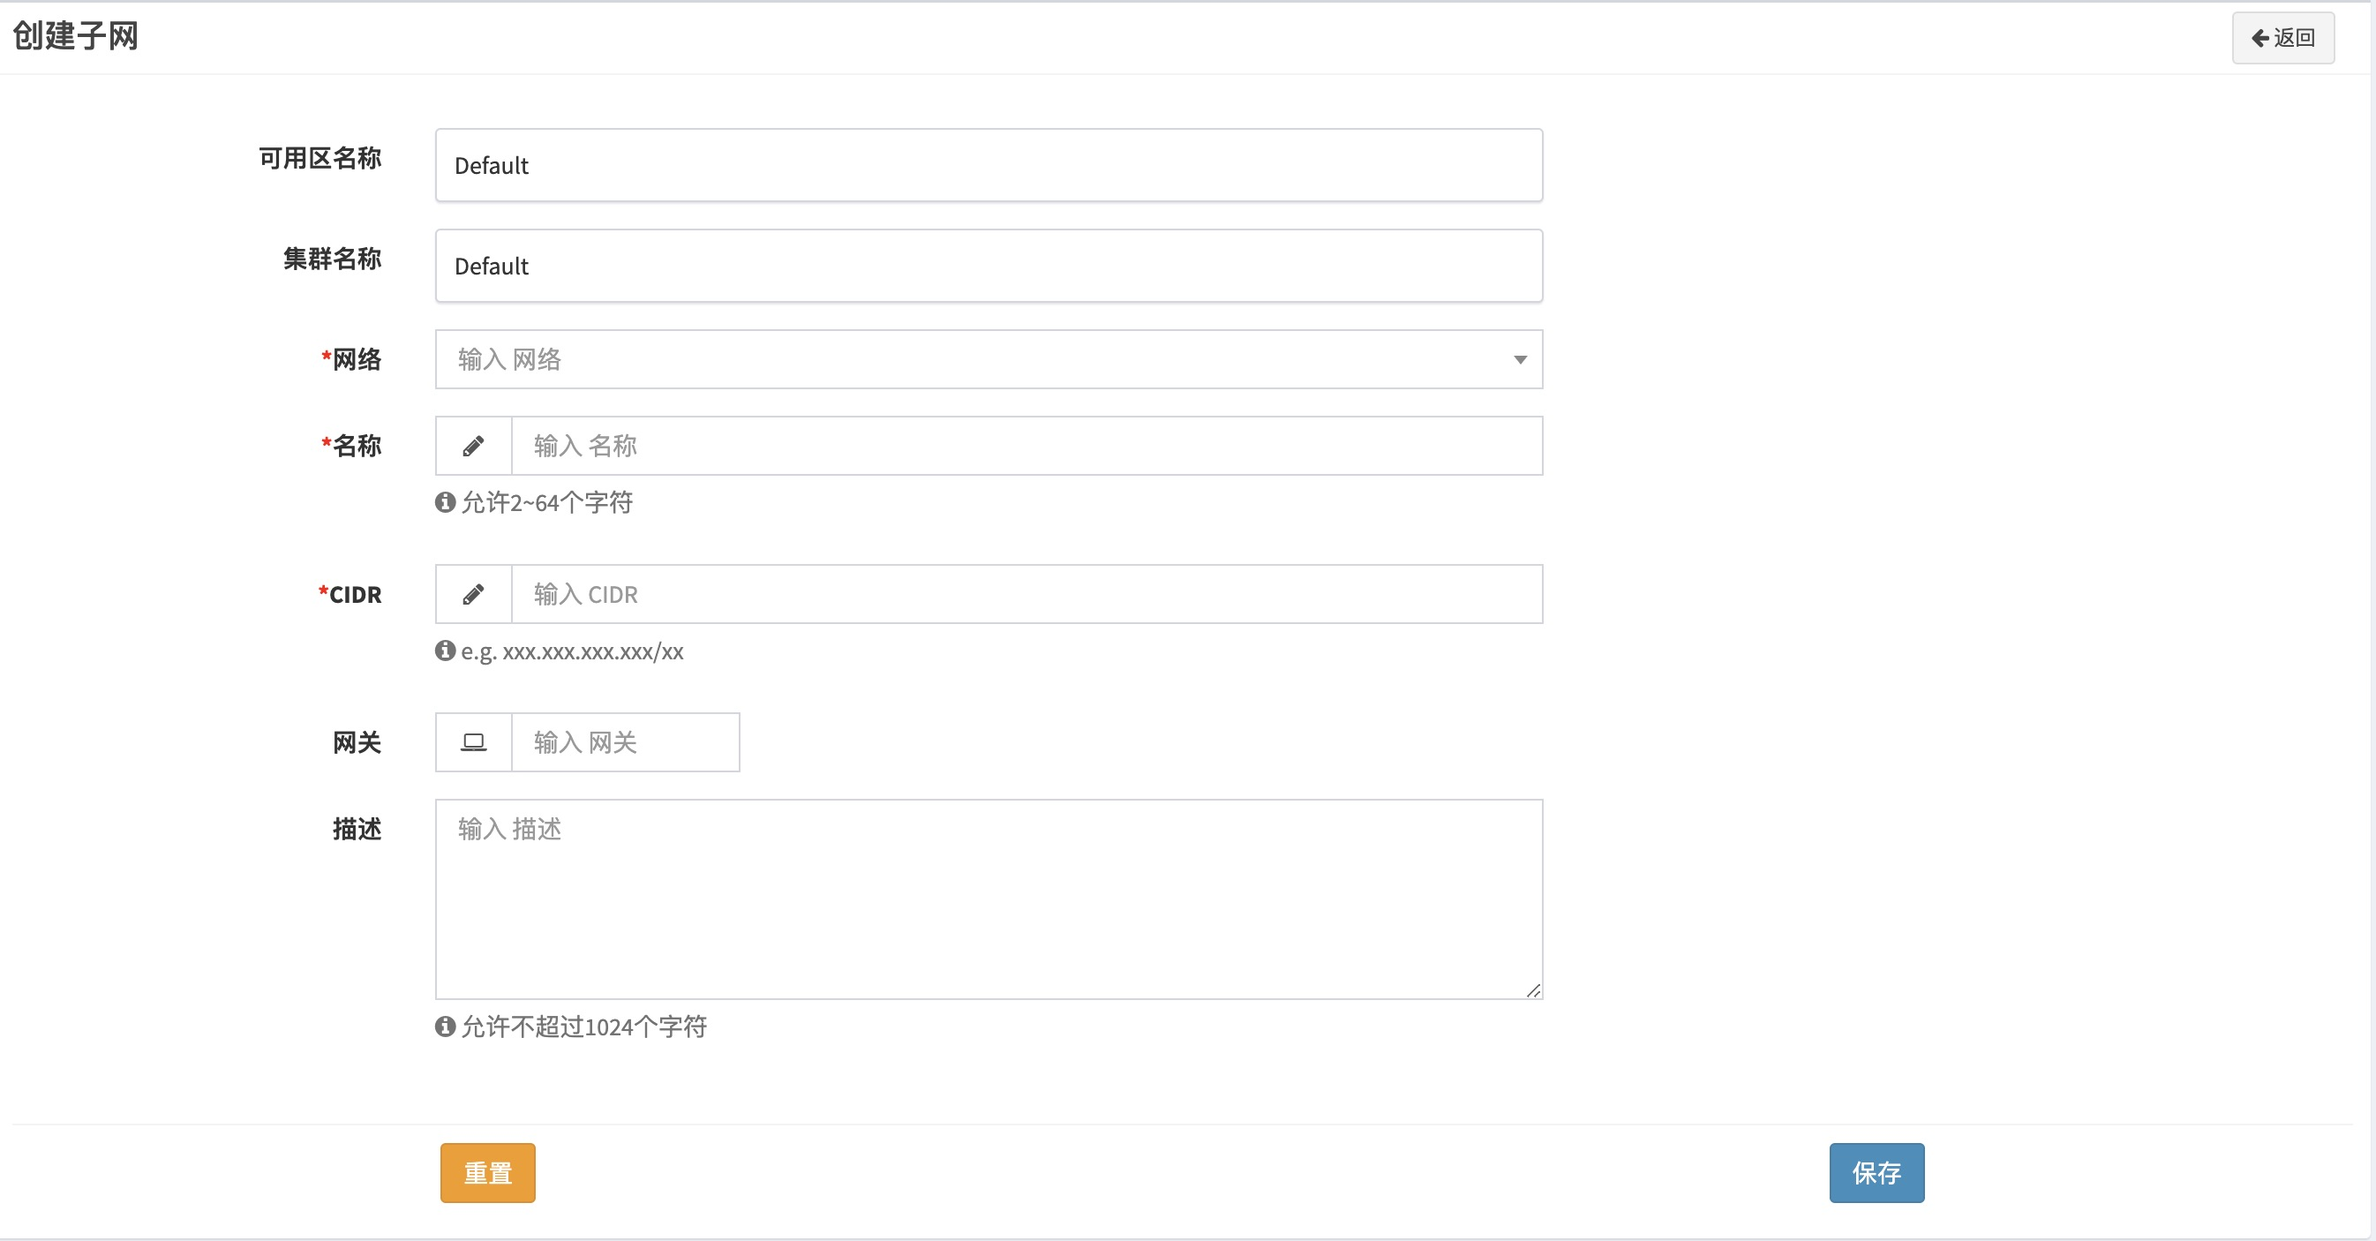
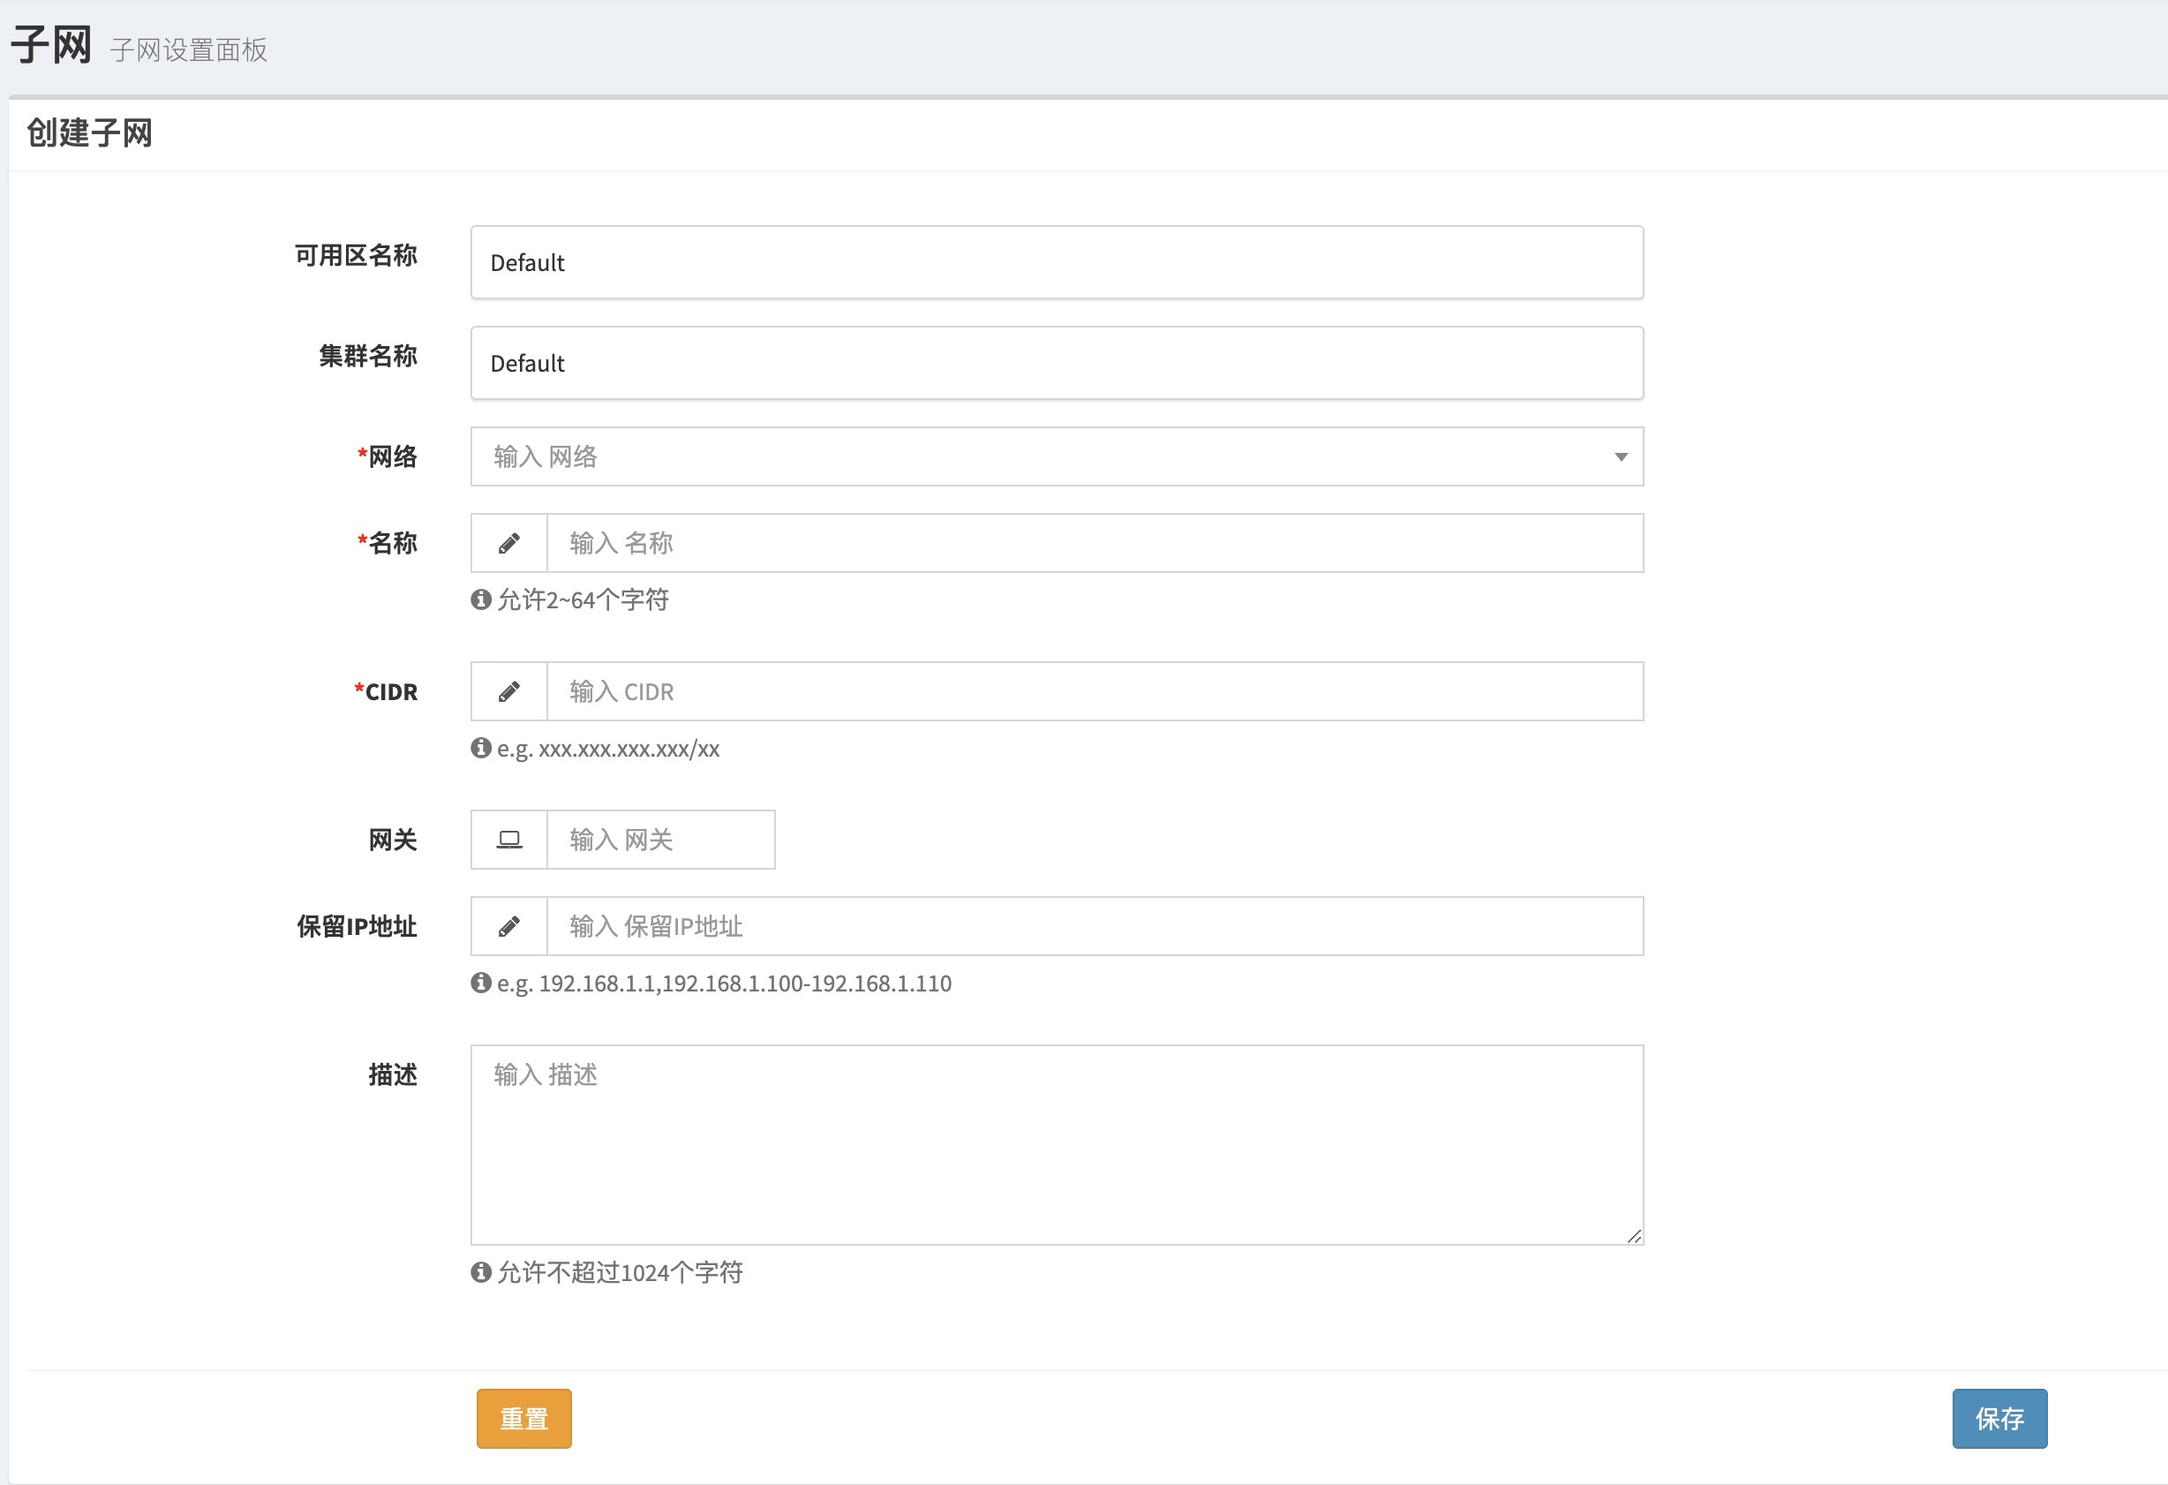
update

diff --git a/content/zh/docs/Usage/WebUI/Platform/host/_index.md b/content/zh/docs/Usage/WebUI/Platform/host/_index.md
@@ -8,7 +8,7 @@ weight: 4
 
 集群安装完成后，一个运行chime-agent的节点会自动注册到系统里，但这时该节点还不能分配虚拟资源，即无法创建虚拟机，管理员需要把节点注册到单个集群中，才能分配物理资源。
 
-* 查看物理节点列表
+### 查看物理节点
   * 点击"**筛选**"按钮，输入过滤条件，查询过滤后的物理节点列表
   * 点击"**列过滤**"按钮，过滤需要显示在列表的信息，默认全部显示
 
@@ -16,7 +16,8 @@ weight: 4
 物理节点列表页
 {{% /imgproc %}}
 
-* 注册节点，点击"**注册**"，输入或选择注册节点信息:
+### 注册节点
+* 点击"**注册**"，输入或选择注册节点信息:
   * 选择要注册的可用区
   * 选择要注册的集群
   * 输入CPU的超分比(默认是1.0)，比如32核心的物理CPU，可分最多32核心的vCPUs给虚拟机。如果设置超分比是2.0，则可分配最多64核心的vCPUs
@@ -30,7 +31,7 @@ weight: 4
 
 ## 已注册节点
 
-* 查看已注册节点列表
+### 查看已注册节点
   * 点击"**筛选**"按钮，输入过滤条件，查询过滤后的已注册节点列表
   * 点击"**列过滤**"按钮，过滤需要显示在列表的信息，默认全部显示
 {{% imgproc host_list Fit "1000x600" %}}
@@ -65,7 +66,7 @@ weight: 4
 节点的操作日志
 {{% /imgproc %}}
 
-* 修改节点配置
+### 修改节点
   * 输入CPU的超分比(默认是1.0)，比如32核心的物理CPU，可分最多32核心的vCPUs给虚拟机。如果设置超分比是2.0，则可分配最多64核心的vCPUs
   * 输入保留CPU，即有多少核心的CPU是不参与虚拟化的，一般情况下每个节点会预留少量的CPU资源作为运行在节点上的基础服务用；在超融合场景下，往往存储后端的服务进程也需要预留一部分的CPU单独使用，目的对虚拟化使用的计算资源进行限制和隔离，减少互相影响。
   * 输入内存超分比(默认是1.0)，内存超分的计算方法和CPU超分计算方法类似。
@@ -76,7 +77,7 @@ weight: 4
 更新节点设置
 {{% /imgproc %}}
 
-* 节点相关操作
+### 节点管理
   * 点击"**删除**"按钮解除注册节点信息，该节点在物理节点列表重新回到未注册状态。注意，如果该节点包含任何未删除的虚拟机或本地硬盘资源，则无法删除。
   * 点击"**停用**"停止该节点的调度，不影响已经运行的虚拟机，但新虚拟机将不再调度到该节点
   * 点击"**启用**"重新启用已经停止的节点

diff --git a/content/zh/docs/Usage/WebUI/Platform/publicimage/_index.md b/content/zh/docs/Usage/WebUI/Platform/publicimage/_index.md
@@ -1,28 +1,31 @@
 ---
-title: 共有镜像管理
-description: 介绍共有镜像的管理方法
+title: 镜像管理
+description: 介绍镜像的管理方法
 weight: 10
 ---
 
-* 查看镜像源列表
-  * 点击**筛选**按钮，输入过滤条件，查询过滤后的镜像源列表，每个账号有一个私有镜像源
-  * 点击**列过滤**按钮，过滤需要显示在列表的信息，默认全部显示
+## 查看镜像源
+  * 点击"**筛选**"按钮，输入过滤条件，查询过滤后的镜像源列表。注意，每个ChimeStack用户都有且只有一个私有镜像源，镜像源名是用户的Uuid
+  * 点击"**列过滤**"按钮，过滤需要显示在列表的信息，默认全部显示
 
 {{% imgproc bucket_list Fit "1000x600" %}}
 镜像源列表
 {{% /imgproc %}}
 
-* 查看镜像列表
-  * 点击**筛选**按钮，输入过滤条件，查询过滤后的镜像列表
-  * 点击**列过滤**按钮，过滤需要显示在列表的信息，默认全部显示
+## 查看镜像
+  * 点击"**筛选**"按钮，输入过滤条件，查询过滤后的镜像列表
+  * 点击"**列过滤**"按钮，过滤需要显示在列表的信息，默认全部显示
   
 {{% imgproc image_list Fit "1000x600" %}}
 镜像列表
 {{% /imgproc %}}
 
-* 添加公共镜像，输入或选择以下信息: 
-  * 输入镜像的名称,允许(2～64)个字符
-  * 选择镜像的文件格式，目前支持"raw","qcow2"和"iso"
+
+## 添加公共镜像
+
+输入或选择以下信息: 
+  * 输入镜像的名称, 允许(2～64)个字符
+  * 选择镜像的文件格式，目前支持"raw","qcow2"和"iso"三种文件格式
   * 选择操作系统类型
   * 选择操作系统版本
   * (可选)系统架构

diff --git a/content/zh/docs/Usage/WebUI/Platform/instancespec/_index.md b/content/zh/docs/Usage/WebUI/Platform/instancespec/_index.md
@@ -4,15 +4,15 @@ description: 介绍如果管理虚拟机的规格
 weight: 7
 ---
 
-* 查看虚拟机规格列表
-  * 点击**筛选**按钮，输入过滤条件，查询过滤后的虚拟机规格列表
-  * 点击**列过滤**按钮，过滤需要显示在列表的信息，默认全部显示
+## 查看虚拟机规格
+  * 点击"**筛选**"按钮，输入过滤条件，查询过滤后的虚拟机规格列表
+  * 点击"**列过滤**"按钮，过滤需要显示在列表的信息，默认全部显示
   
 {{% imgproc instancespec_list Fit "1000x600" %}}
 虚拟机规格列表
 {{% /imgproc %}}
 
-* 新建虚拟机规格
+## 新建虚拟机规格
   * 输入规格名称
   * 选择规格类型
     * 共享型: 虚拟机实例和其他实例共享物理机资源，可以比较好的利用系统资源
@@ -25,12 +25,13 @@ weight: 7
 新建虚拟机规格
 {{% /imgproc %}}
 
-* 虚拟机规格管理
-  * 点击**编辑**按钮编辑规格信息和参数
-  * 点击**删除**按钮删除规格
+## 虚拟机规格管理
+  * 点击"**编辑**"按钮编辑规格信息和参数
+  * 点击"**删除**"按钮删除规格
 
+## 关联虚拟机规格到集群
 
-* 关联虚拟机规格到集群: 只有把虚拟机规格关联到集群才能正常使用，点击**挂载到集群**把一个规格关联到一个集群上，一个规格可以关联多个集群。
+只有把虚拟机规格关联到集群后，集群中才能使用该规格创建虚拟机，点击"**挂载到集群**"把一个实例规格关联到一个或者多个集群。
   
 {{% imgproc instancespec_relation Fit "1000x600" %}}
 虚拟机规格关联到集群

diff --git a/content/zh/docs/Usage/WebUI/Platform/storagepool/_index.md b/content/zh/docs/Usage/WebUI/Platform/storagepool/_index.md
@@ -4,21 +4,26 @@ description: 介绍本地存储池、Ceph存储的管理方法
 weight: 8
 ---
 
-* 查看存储池列表
-  * 点击**筛选**按钮，输入过滤条件，查询过滤后的存储池列表
-  * 点击**列过滤**按钮，过滤需要显示在列表的信息，默认全部显示
+## 查看存储池
+  * 点击"**筛选**"按钮，输入过滤条件，查询过滤后的存储池列表
+  * 点击"**列过滤**"按钮，过滤需要显示在列表的信息，默认全部显示
 
 {{% imgproc pool_list Fit "1000x600" %}}
 存储池列表
 {{% /imgproc %}}
 
-* 新建存储池
+## 新建存储池
   * 输入存储池名称
   * 选择存储池类型
     * 本地存储: 节点上的物理盘存储
     * Ceph存储: Ceph集群的存储资源
   * (仅本地存储) 后端的存储路径
   * (仅本地存储) 缓存盘的存储路径 
+  * (仅Ceph存储) Ceph Monitor地址
+  * (仅Ceph存储) Ceph Monitor端口
+  * (仅Ceph存储) Ceph存储池
+  * (仅Ceph存储) Ceph用户名
+  * (仅Ceph存储) Ceph密钥
   * 容量分配比
   * 物理容量(GiB)
   * 保留容量(GiB)
@@ -31,6 +36,6 @@ weight: 8
 新建存储池(Ceph存储)
 {{% /imgproc %}}
 
-* 存储池管理
-  * 点击**编辑**按钮编辑存储池信息和参数
-  * 点击**删除**按钮删除存储池
+## 存储池管理
+  * 点击"**编辑**"按钮编辑存储池信息和参数。
+  * 点击"**删除**"按钮删除存储池, 注意如果该存储池存在未删除的云盘，则无法删除该存储池。

diff --git a/content/zh/docs/Usage/WebUI/Platform/volumespec/_index.md b/content/zh/docs/Usage/WebUI/Platform/volumespec/_index.md
@@ -4,15 +4,15 @@ description: 介绍云盘规格的管理方法
 weight: 9
 ---
 
-* 查看云盘规格列表
-  * 点击**筛选**按钮，输入过滤条件，查询过滤后的云盘规格列表
-  * 点击**列过滤**按钮，过滤需要显示在列表的信息，默认全部显示
+## 查看云盘规格
+  * 点击"**筛选**"按钮，输入过滤条件，查询过滤后的云盘规格列表
+  * 点击"**列过滤**"按钮，过滤需要显示在列表的信息，默认全部显示
   
 {{% imgproc volumespec_list Fit "1000x600" %}}
 云盘规格列表
 {{% /imgproc %}}
 
-* 新建云盘规格
+## 新建云盘规格
   * 输入规格名称
   * 选择存储池
   * 输入最小IOPS
@@ -33,11 +33,12 @@ weight: 9
 新建云盘规格
 {{% /imgproc %}}
 
-* 云盘规格管理
-  * 点击**编辑**按钮编辑规格信息和参数
-  * 点击**删除**按钮删除规格
+## 云盘规格管理
+  * 点击"**编辑**"按钮编辑规格信息和参数
+  * 点击"**删除**"按钮删除规格
 
-* 关联云盘规格到集群: 只有把云盘规格关联到集群才能正常使用，点击**挂载到集群**把一个规格关联到一个集群上，一个规格可以关联多个集群。
+## 关联云盘规格到集群
+只有把云盘规格关联到集群后，集群才能正常使用该规格创建云盘，点击"**挂载到集群**"把一个云盘规格关联到一个或者多个集群。
 
 {{% imgproc volumespec_relation Fit "1000x600" %}}
 云盘规格关联到集群

diff --git a/content/zh/docs/Usage/WebUI/Platform/network/_index.md b/content/zh/docs/Usage/WebUI/Platform/network/_index.md
@@ -4,16 +4,16 @@ description: 介绍二层网络的管理方法
 weight: 5
 ---
 
-* 查看二层网络列表
-  * 点击**筛选**按钮，输入过滤条件，查询过滤后的网络列表
-  * 点击**列过滤**按钮，过滤需要显示在列表的信息，默认全部显示
+## 查看二层网络列表
+  * 点击"**筛选**"按钮，输入过滤条件，查询过滤后的网络列表
+  * 点击"**列过滤**"按钮，过滤需要显示在列表的信息，默认全部显示
 
 {{% imgproc network_list Fit "1000x600" %}}
 二层网络列表页
 {{% /imgproc %}}
 
-* 新建二层网络
-  * 输入网络名称
+## 新建二层网络
+  * 输入网络名称，注意网络名称只能包含"0-9"、"a-zA-Z"、"-"、"_"符号。
   * 选择网络类型(经典二层网络, VLAN网络和VxLan网络)，目前仅支持经典网络
   * 输入网卡名称
   * (可选)描述信息
@@ -25,7 +25,7 @@ weight: 5
 新建二层网络
 {{% /imgproc %}}
 
-* 二层网络管理
-  * 点击**编辑**更新网络基本信息
-  * 点击**删除**删除一个网络
-  * 点击**子网管理**跳转到该网络的子网管理页面
+## 二层网络管理
+  * 点击"**编辑**"更新网络基本信息
+  * 点击"**删除**"删除一个网络，注意如果一个二层网络有虚拟机、虚拟网卡正在使用改网络，或有子网，则无法删除。
+  * 点击"**子网管理**"跳转到该网络的子网管理页面

diff --git a/content/zh/docs/Usage/WebUI/Platform/subnet/_index.md b/content/zh/docs/Usage/WebUI/Platform/subnet/_index.md
@@ -4,18 +4,19 @@ description: 介绍子网的管理方法
 weight: 6
 ---
 
-* 查看子网列表
-  * 点击**筛选**按钮，输入过滤条件，查询过滤后的子网列表
-  * 点击**列过滤**按钮，过滤需要显示在列表的信息，默认全部显示
+## 查看子网
+  * 点击"**筛选**"按钮，输入过滤条件，查询过滤后的子网列表
+  * 点击"**列过滤**"按钮，过滤需要显示在列表的信息，默认全部显示
   
 {{% imgproc subnet_list Fit "1000x600" %}}
 子网列表
 {{% /imgproc %}}
 
-* 新建子网
+## 新建子网
   * 输入子网名称
   * 选择网络
   * 输入CIDR
+  * 输入保留IP地址，多个地址用逗号分隔，支持地址段输入，例如192.168.231.101-192.168.231.200
   * 输入网关（如果不输入，默认为CIDR对应网络IP段的第一个IP）
   * (可选)描述信息
   
@@ -23,6 +24,6 @@ weight: 6
 新建子网
 {{% /imgproc %}}
 
-* 子网管理
-  * 点击**编辑**更新子网基本信息
-  * 点击**删除**删除一个子网
+## 子网管理
+  * 点击"**编辑**"更新子网基本信息
+  * 点击"**删除**"删除一个子网

diff --git a/content/zh/docs/Usage/limit.md b/content/zh/docs/Usage/limit.md
@@ -18,7 +18,7 @@ description: 介绍ChimeStack平台各资源的限制条件
 |镜像桶|平台资源|公有镜像桶有且只有一个，私有镜像桶每个用户有且只有一个，总个数不限制|
 |虚拟机|虚拟化资源|不限制个数|
 |镜像|虚拟化资源|不限制个数|
-|云盘|虚拟化资源|不限制个数|
+|云盘|虚拟化资源|每个用户可以创建的云盘总数没有限制，但每个虚拟机最多挂载128个云盘|
 |快照|虚拟化资源|每个云盘最多16个快照|
-|虚拟网卡|虚拟化资源|不限制个数|
+|虚拟网卡|虚拟化资源|每个用户可以创建的虚拟网卡总数没有限制，但每个虚拟机最多挂载16个虚拟网卡|
 |安全组|虚拟化资源|每个用户最多8个安全组|

diff --git a/content/zh/docs/Usage/WebUI/Platform/cluster/_index.md b/content/zh/docs/Usage/WebUI/Platform/cluster/_index.md
@@ -4,7 +4,7 @@ description: 介绍集群的管理方法
 weight: 3
 ---
 
-* 查看集群列表
+## 查看集群
   * 点击"**筛选**"按钮，输入过滤条件，查询过滤后的集群列表
   * 点击"**列过滤**"按钮，过滤需要显示在列表的信息，默认全部显示
 
@@ -12,7 +12,9 @@ weight: 3
 集群列表页
 {{% /imgproc %}}
 
-* 集群管理，在"操作"菜单:
+## 集群管理
+
+* 在"操作"菜单:
   * 点击"**编辑**"更新集群基本信息
   * 点击"**新建**"创建新的集群
   * 点击"**删除**"删除一个集群，注意如果该集群包含了任何未删除的节点、存储池、二层网络，则无法删除。

diff --git a/content/zh/docs/Usage/WebUI/Platform/zone/_index.md b/content/zh/docs/Usage/WebUI/Platform/zone/_index.md
@@ -4,7 +4,8 @@ description: 介绍可用区的管理方法
 weight: 2
 ---
 
-* 查看可用区列表
+## 查看可用区
+
   * 点击"**筛选**"按钮，输入过滤条件，查询过滤后的可用区列表
   * 点击"**列过滤**"按钮，过滤需要显示在列表的信息，默认全部显示
 
@@ -12,7 +13,8 @@ weight: 2
 可用区列表
 {{% /imgproc %}}
 
-* 可用区管理,在"操作"菜单:
+## 可用区管理
+* 在"操作"菜单
   * 点击"**编辑**"更新可用区的基本信息
   * 点击"**新建**"创建新的可用区
   * 点击"**删除**"删除一个可用区，如果要删除的可用区包含任何集群的话，无法进行删除。
